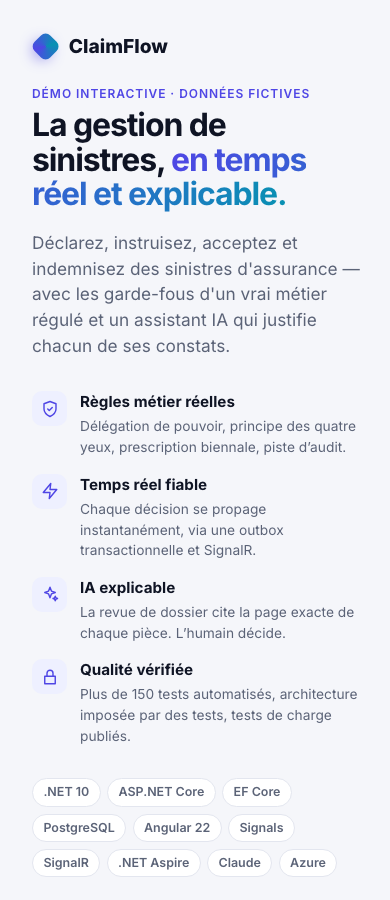
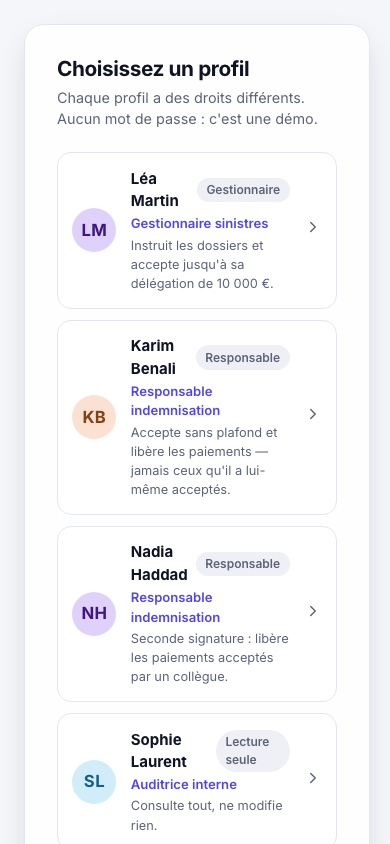
fix(web): show demo profiles first on phones
The previous commit's stylesheet change was lost to a formatting
mismatch; verified this time on the deployed site at 390 px.

diff --git a/web/src/app/pages/login/login.scss b/web/src/app/pages/login/login.scss
@@ -224,6 +224,11 @@ h1 {
   .page {
     grid-template-columns: 1fr;
   }
+  // On a phone the visitor came to try the demo: profiles first, the pitch right below.
+  .panel {
+    order: -1;
+    padding-bottom: 0;
+  }
   .brand {
     margin-bottom: 1.5rem;
   }
